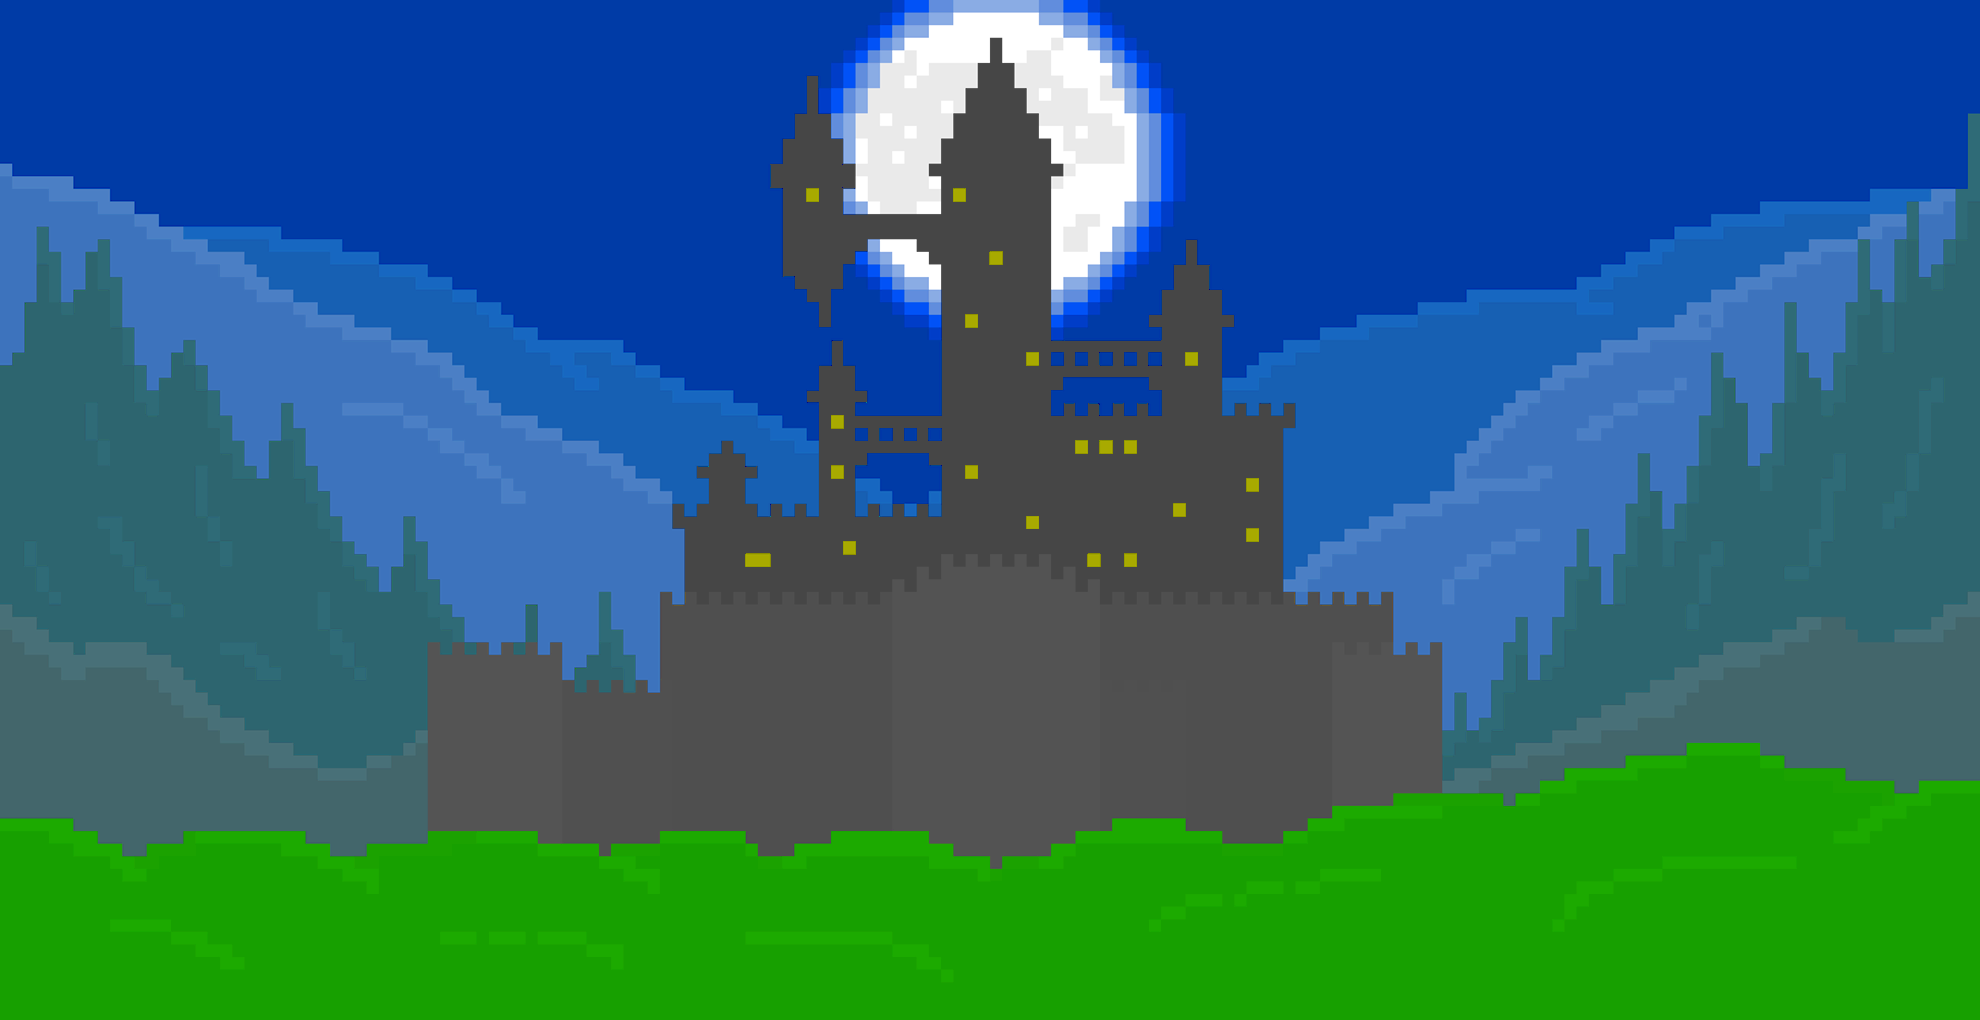
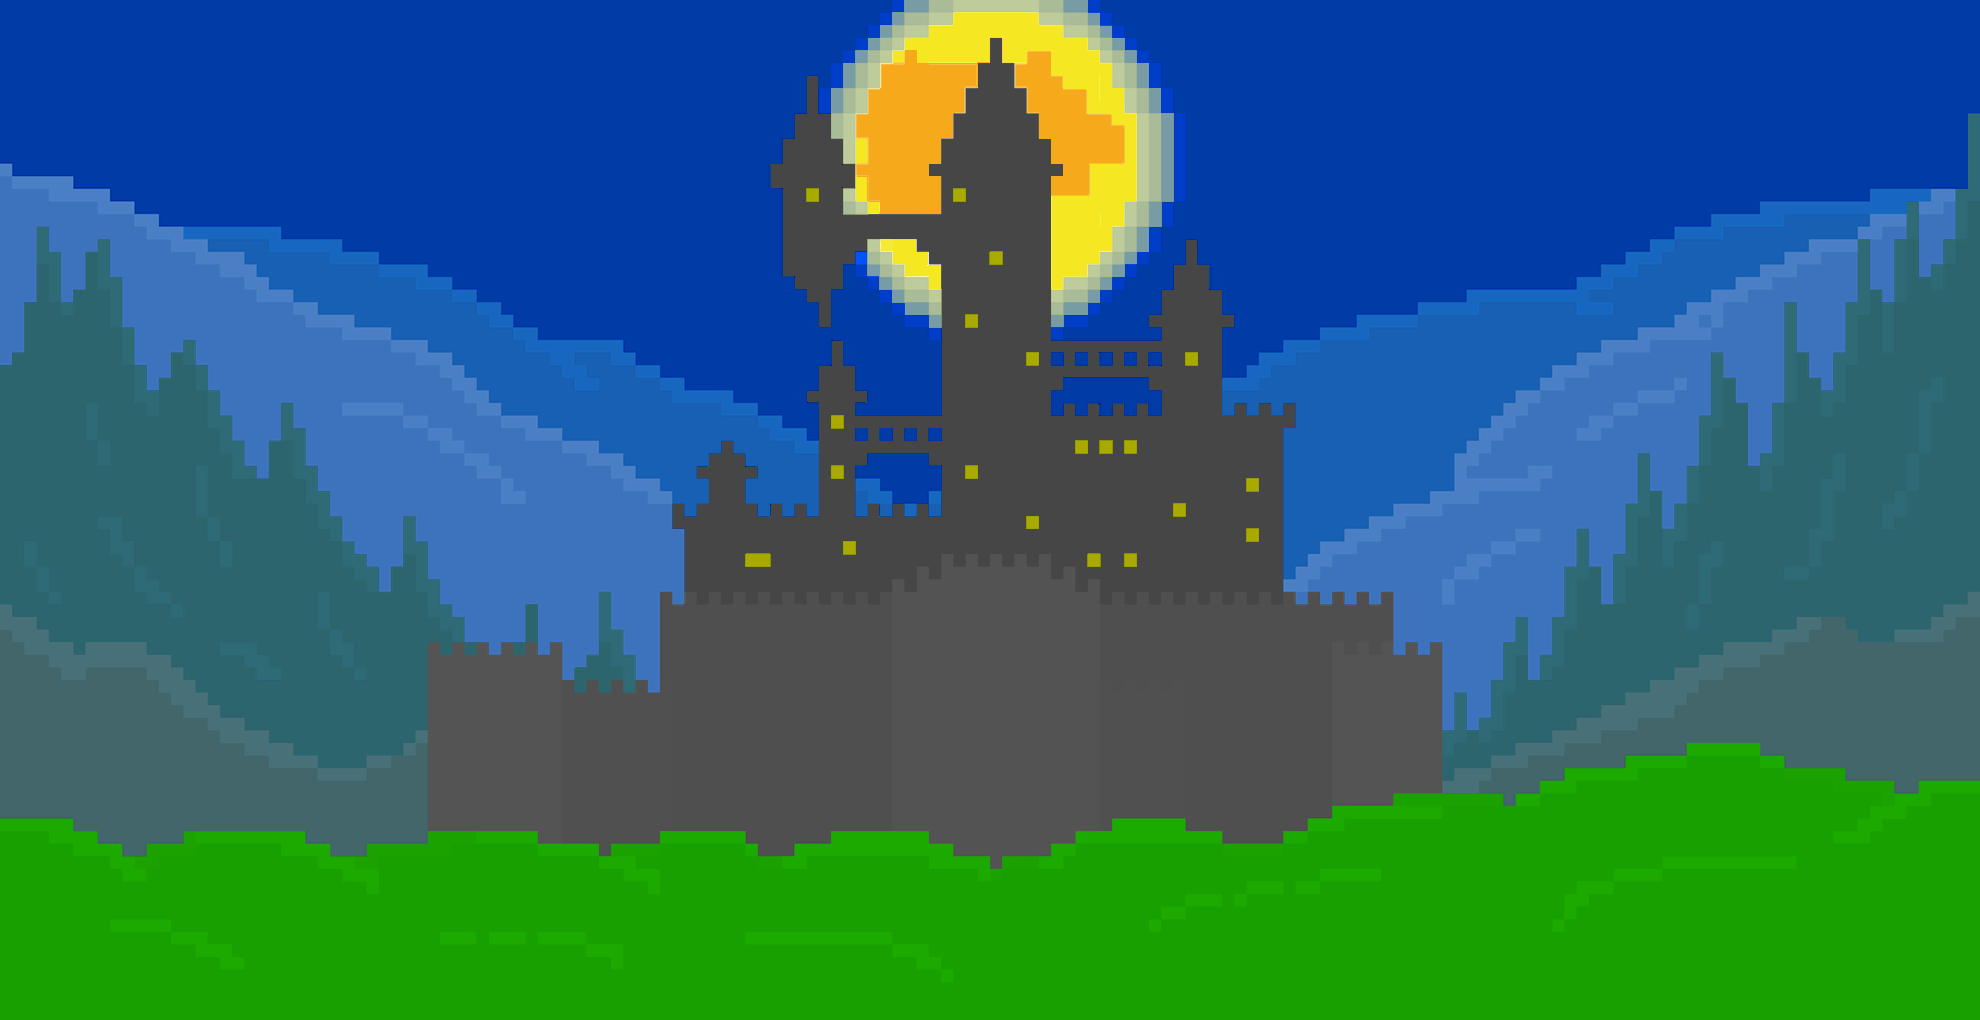
added level 4, endscreen background and removed buggy slime

Changed region(s): [[0.4005, 0.0, 0.6162, 0.3343]]

diff --git a/Game/Utility/Util.ts b/Game/Utility/Util.ts
@@ -44,7 +44,7 @@ namespace Game {
     }
 
     public getRandomRange(min: number, max: number): number {
-      return Math.floor(Math.random() * (max - min) + min)
+      return Math.floor(Math.random() * (max - min) + min);
     }
 
     public gameOver(): void {
@@ -56,17 +56,15 @@ namespace Game {
       statBox.style.opacity = "0.5";
     }
 
-    public delay(ms: number) {
+    public delay(ms: number): Promise<unknown> {
       return new Promise(resolve => setTimeout(resolve, ms));
     }
 
-    public async  save(fileName: string): Promise<void> {
-      let jsonString = this.createSavegame();
+    public async save(fileName: string): Promise<void> {
+      let jsonString: string = this.createSavegame();
       let map: fudge.MapFilenameToContent = { [fileName]: jsonString };
       fudge.FileIoBrowserLocal.save(map);
     }
-
-
 
     public fetchAudios(): void {
 
@@ -89,13 +87,10 @@ namespace Game {
       this.hurtSound = new Audio();
       this.hurtSound.src = "../Game/Assets/sounds/hurt.wav";
       this.hurtSound.load();
-
-
     }
 
-
-    public setTheme(theme: String) {
-      fudge.Debug.log(theme)
+    public setTheme(theme: String): void {
+      fudge.Debug.log(theme);
       this.themeSound = new Audio();
       switch (theme) {
         case "level1": {
@@ -110,7 +105,6 @@ namespace Game {
           this.themeSound.src = "../Game/Assets/sounds/level3.wav";
           break;
         }
-
       }
       this.themeSound.loop = true;
       this.themeSound.load();
@@ -118,25 +112,21 @@ namespace Game {
       this.setVolume(this.musicVol, this.soundVol);
     }
 
-
-    public loadNextLevel() {
+    public loadNextLevel(): void {
       this.themeSound.pause();
       this.oldPlayer = this.level.player;
       this.deleteAllNodes();
       this.collidableNode = new fudge.Node("Colidable");
       this.lvlGenerator = new LevelGenerator(this.collidableNode);
       this.rootNode.appendChild(this.collidableNode);
-      if(!(this.currentLVLNumber == 3))
-      {
+      if (!(this.currentLVLNumber == 4)) {
         this.lvlGenerator.getDataFromFile("level" + (this.currentLVLNumber + 1));
       } else {
         window.open("endscreen", "_self" , "fullscreen=yes" , true); 
       }
-
-
     }
 
-    public setVolume(musicVol: number, soundVol: number) {
+    public setVolume(musicVol: number, soundVol: number): void {
       this.themeSound.volume = this.numberToOneDecimal(musicVol);
       this.hurtSound.volume = this.numberToOneDecimal(soundVol);
       this.jumpSound.volume = this.numberToOneDecimal(soundVol);
@@ -145,7 +135,7 @@ namespace Game {
       this.attackSound.volume = this.numberToOneDecimal(soundVol);
     }
 
-    public numberToOneDecimal(number: number) {
+    public numberToOneDecimal(number: number): number {
       return Math.round(number * 10) / 10;
     }
 
@@ -153,32 +143,24 @@ namespace Game {
       return " {\"levelName\": \"level" + (this.level.levelNumber + 1) + "\", \"hp\": " + this.level.player.getStats().hp + " , \"dmg\": " + this.level.player.getStats().dmg + ", \"jumpHeight\": " + this.level.player.getStats().jumpHeight + ", \"walkSpeed\": " + this.level.player.getStats().walkSpeed + ", \"attackSpeed\":" + this.level.player.getStats().attackSpeed + " } "
     }
 
-    private deleteAllNodes() {
-      let childs = this.collidableNode.getChildren()
+    private deleteAllNodes(): void {
+      let childs: fudge.Node[] = this.collidableNode.getChildren();
 
-      for (var i = 0; i < childs.length; i++) {
+      for (var i: number = 0; i < childs.length; i++) {
         this.collidableNode.removeChild(childs[i]);
       }
-
       this.collidableNode.getParent().removeChild(this.collidableNode);
 
-      for (var i = 0; i < this.level.enemyArray.length; i++) {
-        let enemy = this.level.enemyArray[i];
-        for (var j = 0; j < enemy.getChildren().length; j++) {
-          let child = enemy.getChildren()[j];
-          enemy.removeChild(child)
+      for (var i: number = 0; i < this.level.enemyArray.length; i++) {
+        let enemy: Character = this.level.enemyArray[i];
+        for (var j: number = 0; j < enemy.getChildren().length; j++) {
+          let child: fudge.Node = enemy.getChildren()[j];
+          enemy.removeChild(child);
         }
       }
-
       this.lvlGenerator = null;
-      this.currentLVLNumber = this.level.levelNumber
+      this.currentLVLNumber = this.level.levelNumber;
       this.level = null;
-
-
     }
-
-
-
-
   }
 }

diff --git a/Game/Utility/SpriteGenerator.js b/Game/Utility/SpriteGenerator.js
@@ -110,6 +110,7 @@ var Game;
     }
     Game.NodeSprite = NodeSprite;
     let spriteNames = [
+        "default",
         "player",
         "goblin",
         "blob",
@@ -119,6 +120,7 @@ var Game;
         "background",
         "backgroundcastle",
         "backgroundcity",
+        "backgroundend",
         "healpotion",
         "sword",
         "boots"
@@ -238,6 +240,15 @@ var Game;
                     }
                 }
             }
+            case "default": {
+                switch (stateName) {
+                    case Game.CHARACTERSTATE.DEFAULT: {
+                        let sprite = new Sprite(spriteName + "_" + stateName);
+                        sprite.generateByGrid(textureImage, fudge.Rectangle.GET(24, 21, 40, 30), 1, new fudge.Vector2(0, 0), 32, fudge.ORIGIN2D.CENTER);
+                        return sprite;
+                    }
+                }
+            }
             case "dirt": {
                 switch (stateName) {
                     case Game.CHARACTERSTATE.DEFAULT: {
@@ -284,6 +295,15 @@ var Game;
                 }
             }
             case "backgroundcity": {
+                switch (stateName) {
+                    case Game.CHARACTERSTATE.DEFAULT: {
+                        let sprite = new Sprite(spriteName + "_" + stateName);
+                        sprite.generateByGrid(textureImage, fudge.Rectangle.GET(0, 0, 240, 160), 1, new fudge.Vector2(0, 0), 16, fudge.ORIGIN2D.CENTER);
+                        return sprite;
+                    }
+                }
+            }
+            case "backgroundend": {
                 switch (stateName) {
                     case Game.CHARACTERSTATE.DEFAULT: {
                         let sprite = new Sprite(spriteName + "_" + stateName);

diff --git a/Game/Utility/SpriteGenerator.ts b/Game/Utility/SpriteGenerator.ts
@@ -143,6 +143,7 @@ namespace Game {
   }
 
   let spriteNames: string[] = [
+    "default",
     "player",
     "goblin",
     "blob",
@@ -152,6 +153,7 @@ namespace Game {
     "background",
     "backgroundcastle",
     "backgroundcity",
+    "backgroundend",
     "healpotion",
     "sword",
     "boots"
@@ -276,6 +278,15 @@ namespace Game {
           }
         }
       }
+      case "default": {
+        switch (stateName) { 
+          case CHARACTERSTATE.DEFAULT: { 
+            let sprite: Sprite = new Sprite(spriteName + "_" + stateName);
+            sprite.generateByGrid(textureImage, fudge.Rectangle.GET(24, 21, 40, 30), 1, new fudge.Vector2(0, 0), 32, fudge.ORIGIN2D.CENTER);
+            return sprite;
+          }
+        }
+      }
       case "dirt": {
         switch (stateName) { 
           case CHARACTERSTATE.DEFAULT: { 
@@ -322,6 +333,15 @@ namespace Game {
         }
       }
       case "backgroundcity": {
+        switch (stateName) { 
+          case CHARACTERSTATE.DEFAULT: { 
+            let sprite: Sprite = new Sprite(spriteName + "_" + stateName);
+            sprite.generateByGrid(textureImage, fudge.Rectangle.GET(0, 0, 240, 160), 1, new fudge.Vector2(0, 0), 16, fudge.ORIGIN2D.CENTER);
+            return sprite;
+          }
+        }
+      }
+      case "backgroundend": {
         switch (stateName) { 
           case CHARACTERSTATE.DEFAULT: { 
             let sprite: Sprite = new Sprite(spriteName + "_" + stateName);

diff --git a/Game/game.html b/Game/game.html
@@ -54,6 +54,7 @@
   <img id="background_default" src="../Game/Assets/Spritesheets/environment/background.png" hidden=true>
   <img id="backgroundcastle_default" src="../Game/Assets/Spritesheets/environment/backgroundcastle.png" hidden=true>
   <img id="backgroundcity_default" src="../Game/Assets/Spritesheets/environment/backgroundcity.png" hidden=true>
+  <img id="backgroundend_default" src="../Game/Assets/Spritesheets/environment/backgroundend.png" hidden=true>
 
   <img id="boots_default" src="../Game/Assets/Spritesheets/items/boots_default.png" hidden=true>
   <img id="sword_default" src="../Game/Assets/Spritesheets/items/sword_default.png" hidden=true>

diff --git a/Game/Utility/Util.js b/Game/Utility/Util.js
@@ -80,7 +80,7 @@ var Game;
             this.collidableNode = new fudge.Node("Colidable");
             this.lvlGenerator = new Game.LevelGenerator(this.collidableNode);
             this.rootNode.appendChild(this.collidableNode);
-            if (!(this.currentLVLNumber == 3)) {
+            if (!(this.currentLVLNumber == 4)) {
                 this.lvlGenerator.getDataFromFile("level" + (this.currentLVLNumber + 1));
             }
             else {

diff --git a/Game/Main.ts b/Game/Main.ts
@@ -95,8 +95,8 @@ namespace Game {
 
       util.fetchAudios();
 
-      util.musicVol = (parseInt(urlParams.get('musicVol'))/100);
-      util.soundVol = (parseInt(urlParams.get('soundVol'))/100);
+      util.musicVol = (parseInt(urlParams.get('musicVol')) / 100);
+      util.soundVol = (parseInt(urlParams.get('soundVol')) / 100);
 
       loadSprites();
 
